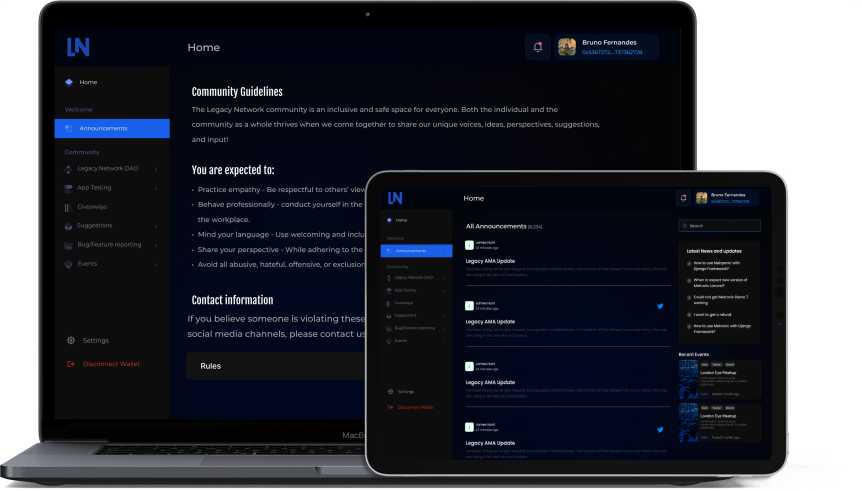
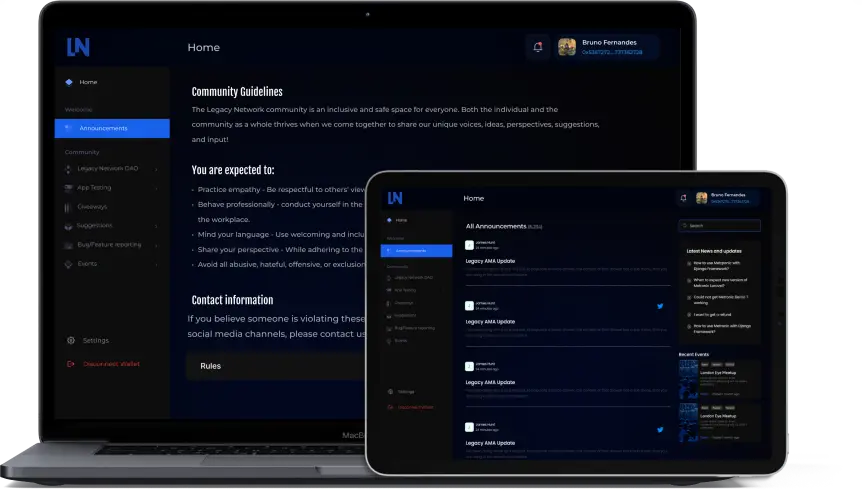
Update How-It-Works images to webp for Network page

diff --git a/components/NetworkPage/HowItWorks/content.js b/components/NetworkPage/HowItWorks/content.js
@@ -12,7 +12,7 @@ const content = {
         title: 'Join the Elite',
         description: `Join our elite board, an exclusive area for hand-picked individuals and early supporters of the Legacy Network ecosystem. Elite members get access to multiple valuable utilities which aren’t available anywhere else. Exchange resources with experts and high-achievers, close beneficial partnerships, get early access to new products or brows through the exclusive education area. Our elite board was specially created to enhance your Legacy Network experience by adding exclusivity and value.`,
         link: 'Access Board',
-        img: '/mockups/How-It-Works-1.png',
+        img: '/mockups/How-It-Works-1.webp',
         sub_list: [
           {
             icon: <Pencil />,
@@ -35,7 +35,7 @@ const content = {
         title: 'Join the Community',
         description: `Our community board is a web3 hub where the Legacy Network team and the community come together to shape the future. Members can submit their ideas, vote on future changes, participate in challenges and register for events. Furthermore, the dashboard comes with several integrations which allows member to access all relevant information about their assets and our progress in just on place.`,
         link: 'Access Board',
-        img: '/mockups/How-It-Works-2.png',
+        img: '/mockups/How-It-Works-2.webp',
         sub_list: [
           {
             icon: <Pencil />,
